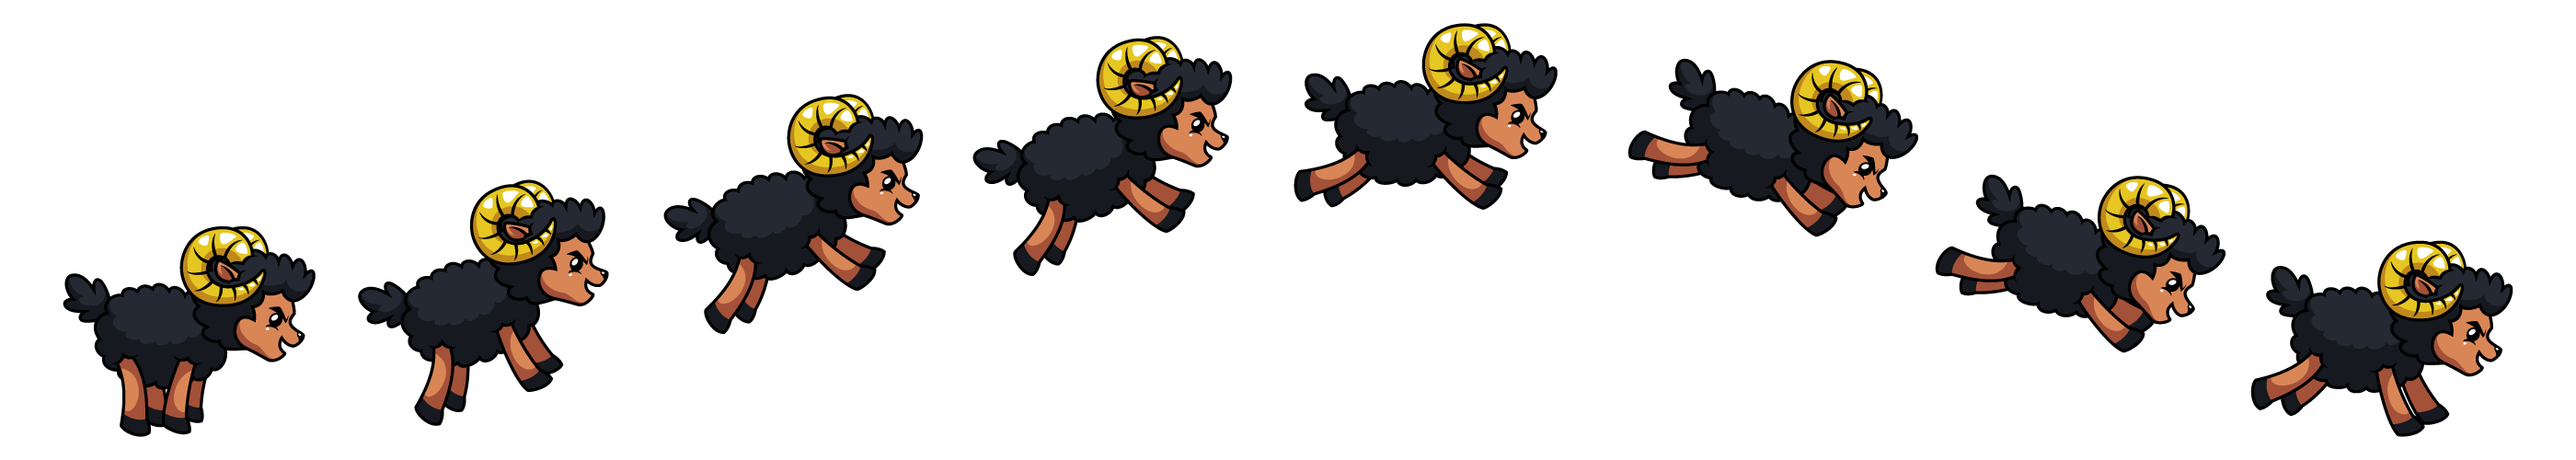
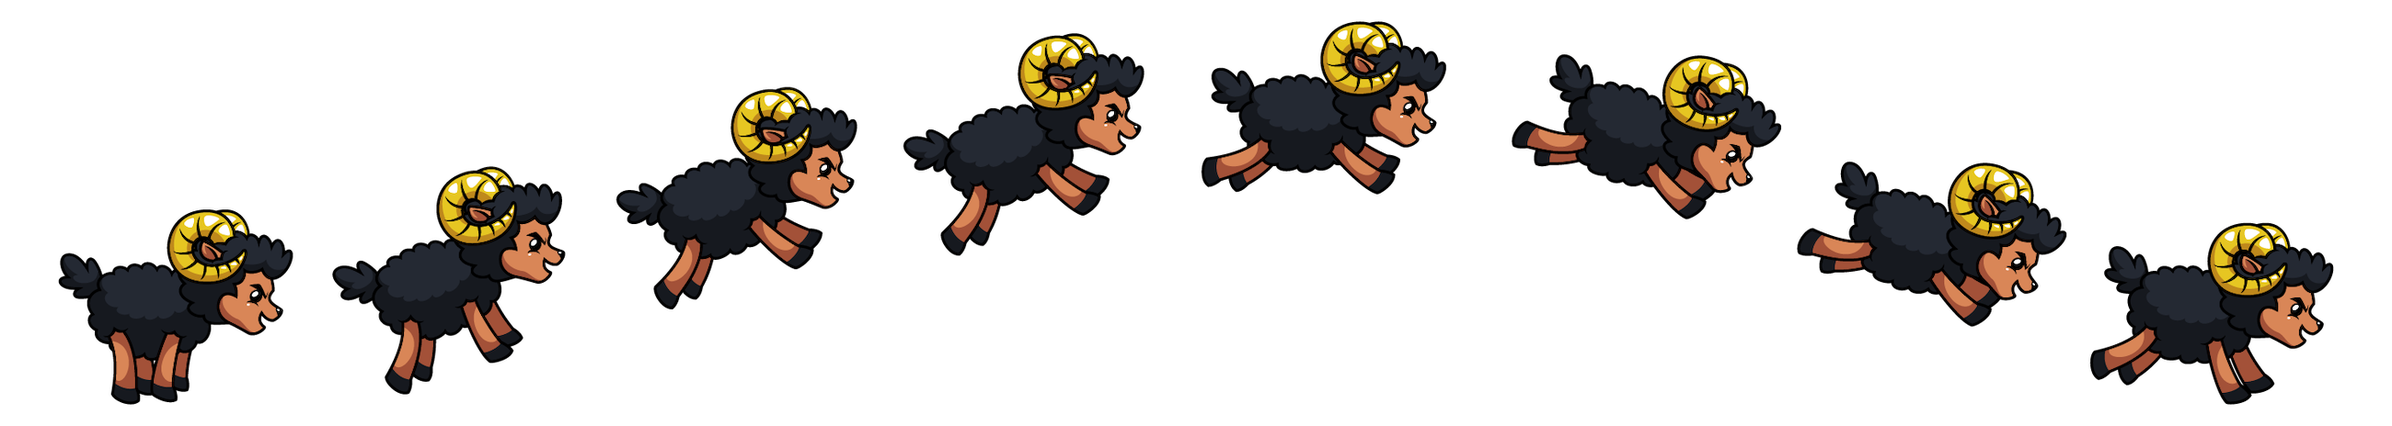
Render sheep

diff --git a/js/player.js b/js/player.js
@@ -1,0 +1,50 @@
+class Player {
+  static idle = 'idle';
+  static jump = 'jump';
+  static run = 'run';
+  
+  constructor(context) {
+    this.context = context;
+    this.currentAnimationStep = 0;
+    this.images = {
+      [Player.idle]: {image: new Image(), steps: 4},
+      [Player.jump]: {image: new Image(), steps: 8},
+      [Player.run]: {image: new Image(), steps: 6},
+    }
+
+    this.currentState = Player.idle;
+    
+    this.x = 0;
+    this.y = 0;
+    this.sourceHeight = 464;
+    this.sourceWidth = 325;
+    this.height = this.sourceHeight / 3;
+    this.width = this.sourceWidth / 3;
+  }
+
+  init() {
+    const images = Object.entries(this.images);
+
+    this.images[Player.idle].image.src = 'assets/Black_Sheep_Idle.png';
+    this.images[Player.jump].image.src = 'assets/Black_Sheep_Jump.png';
+    this.images[Player.run].image.src = 'assets/Black_Sheep_Run.png';
+
+    return Promise.all([
+      new Promise((resolve) => this.images[Player.idle].image.addEventListener('load', () => resolve())),
+      new Promise((resolve) => this.images[Player.jump].image.addEventListener('load', () => resolve())),
+      new Promise((resolve) => this.images[Player.run].image.addEventListener('load', () => resolve())),
+    ]);
+  }
+
+  updatePosition(x, y) {
+    this.x = x;
+    this.y = y;
+  }
+
+  render() {
+    const image = this.images[this.currentState];
+    const sourceStartX = this.currentAnimationStep * this.sourceWidth;
+
+    this.context.drawImage(image.image, sourceStartX, 0, this.sourceWidth, this.sourceHeight, this.x, this.y, this.width, this.height);
+  }
+}

diff --git a/index.js b/index.js
@@ -4,4 +4,30 @@ document.addEventListener('DOMContentLoaded', () => {
 
   const background = new Background(context);
   background.init().then(() => background.render());
+
+  const platforms = [
+    new Platform(context),
+    new Gap(context),
+    new Platform(context),
+    new Platform(context),
+    new Platform(context),
+    new Gap(context),
+    new Platform(context),
+    new Platform(context),
+  ];
+
+  const initializedPlatforms = platforms.map((platform) => platform.init());
+
+  Promise.all(initializedPlatforms).then(() => {
+    platforms.forEach((platform, index) => {
+      platform.updatePosition(index * 141, 282);
+      platform.render();
+    });
+  });
+
+  const player = new Player(context);
+  player.init().then(() => {
+    player.updatePosition(10, 202);
+    player.render();
+  });
 });

diff --git a/js/platform.js b/js/platform.js
@@ -1,0 +1,27 @@
+class Platform {
+  constructor(context) {
+    this.context = context;
+    this.image = new Image();
+    
+    this.x = 0;
+    this.y = 0;
+    this.height = 130;
+    this.width = 141;
+  }
+
+  init() {
+    const promise = new Promise((resolve) => this.image.addEventListener('load', () => resolve()));
+    this.image.src = 'assets/platform.png';
+
+    return promise;
+  }
+
+  updatePosition(x, y) {
+    this.x = x;
+    this.y = y;
+  }
+
+  render() {
+    this.context.drawImage(this.image, this.x, this.y, this.width, this.height);
+  }
+}

diff --git a/index.html b/index.html
@@ -3,8 +3,11 @@
 <head>
     <title>Sheep & Run</title>
     <link rel="stylesheet" type="text/css" href="index.css">
-    <script type="text/javascript" src="index.js"></script>
+    <script src="index.js"></script>
     <script src="js/background.js"></script>
+    <script src="js/player.js"></script>
+    <script src="js/platform.js"></script>
+    <script src="js/gap.js"></script>
 </head>
 
 <body>

diff --git a/js/gap.js b/js/gap.js
@@ -1,0 +1,23 @@
+class Gap {
+  constructor(context) {
+    this.context = context;
+    this.image = new Image();
+    
+    this.x = 0;
+    this.y = 0;
+    this.height = 260;
+    this.width = 282;
+  }
+
+  init() {
+    return Promise.resolve();
+  }
+
+  updatePosition(x, y) {
+    this.x = x;
+    this.y = y;
+  }
+
+  render() {
+  }
+}

diff --git a/js/background.js b/js/background.js
@@ -1,7 +1,7 @@
 class Background {
   constructor(context) {
-    this.context = context;
-    this.image = new Image();
+      this.image = new Image();
+      this.context = context;
   }
 
   init() {
